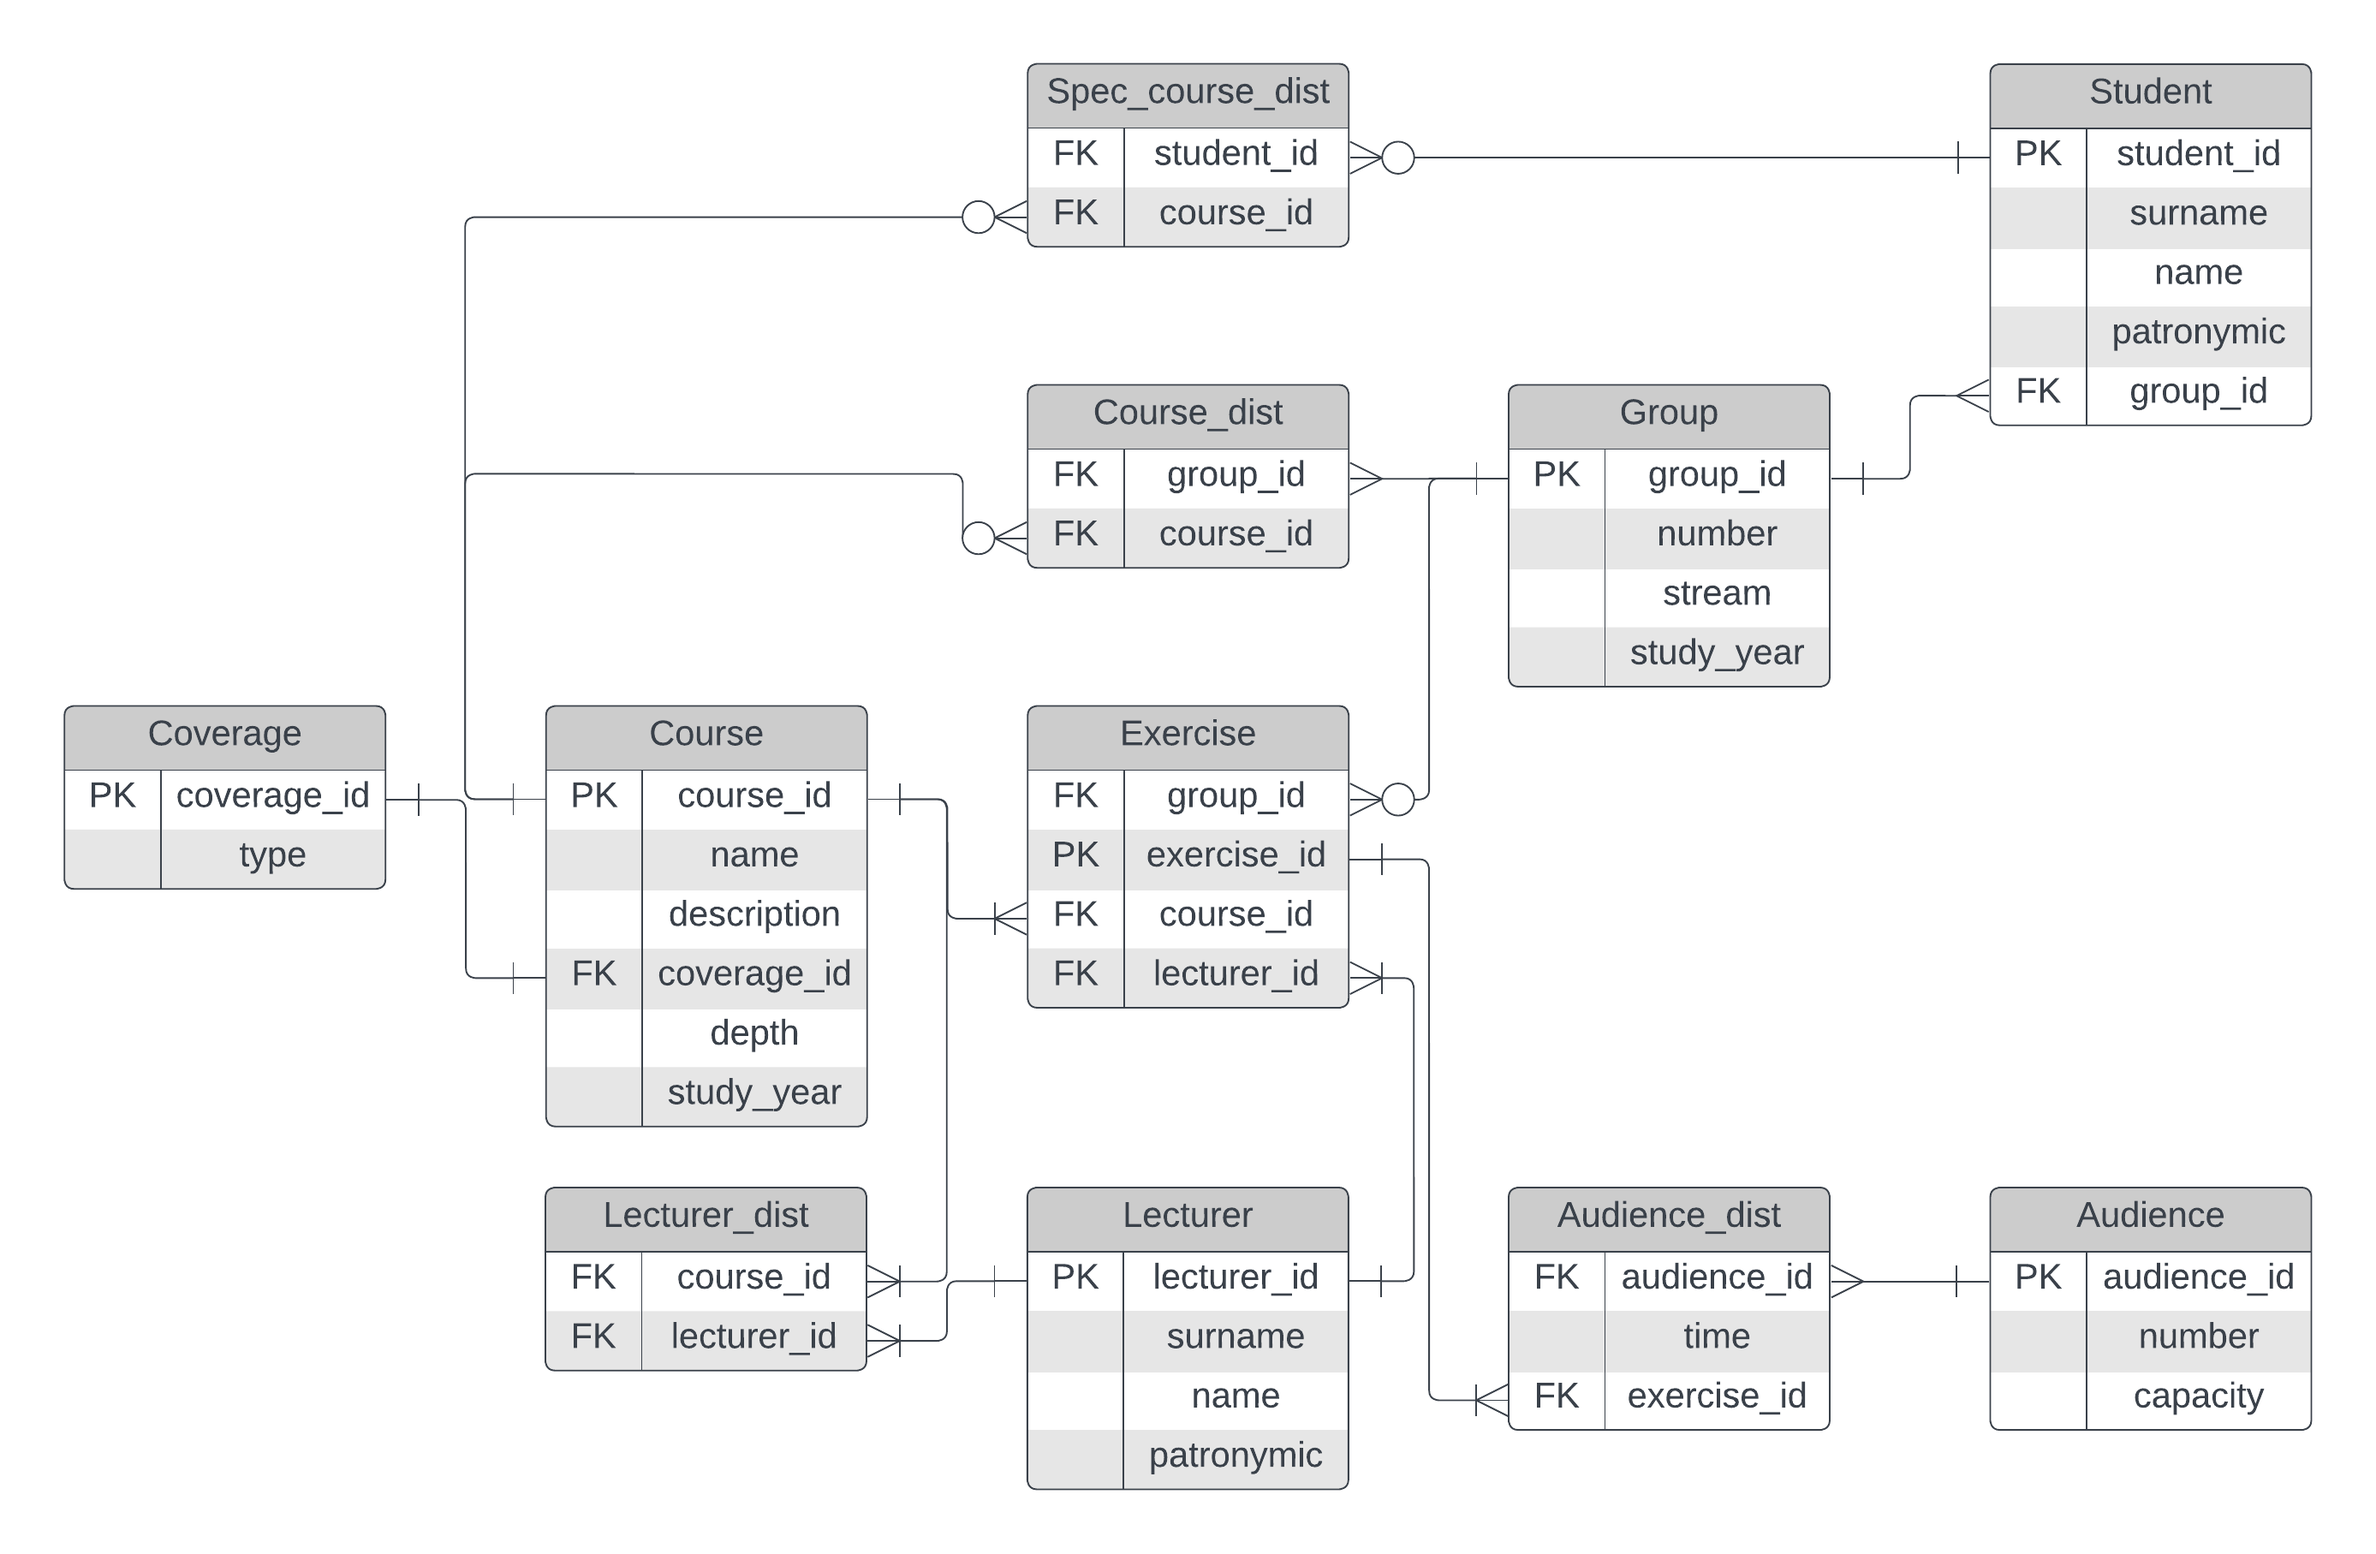
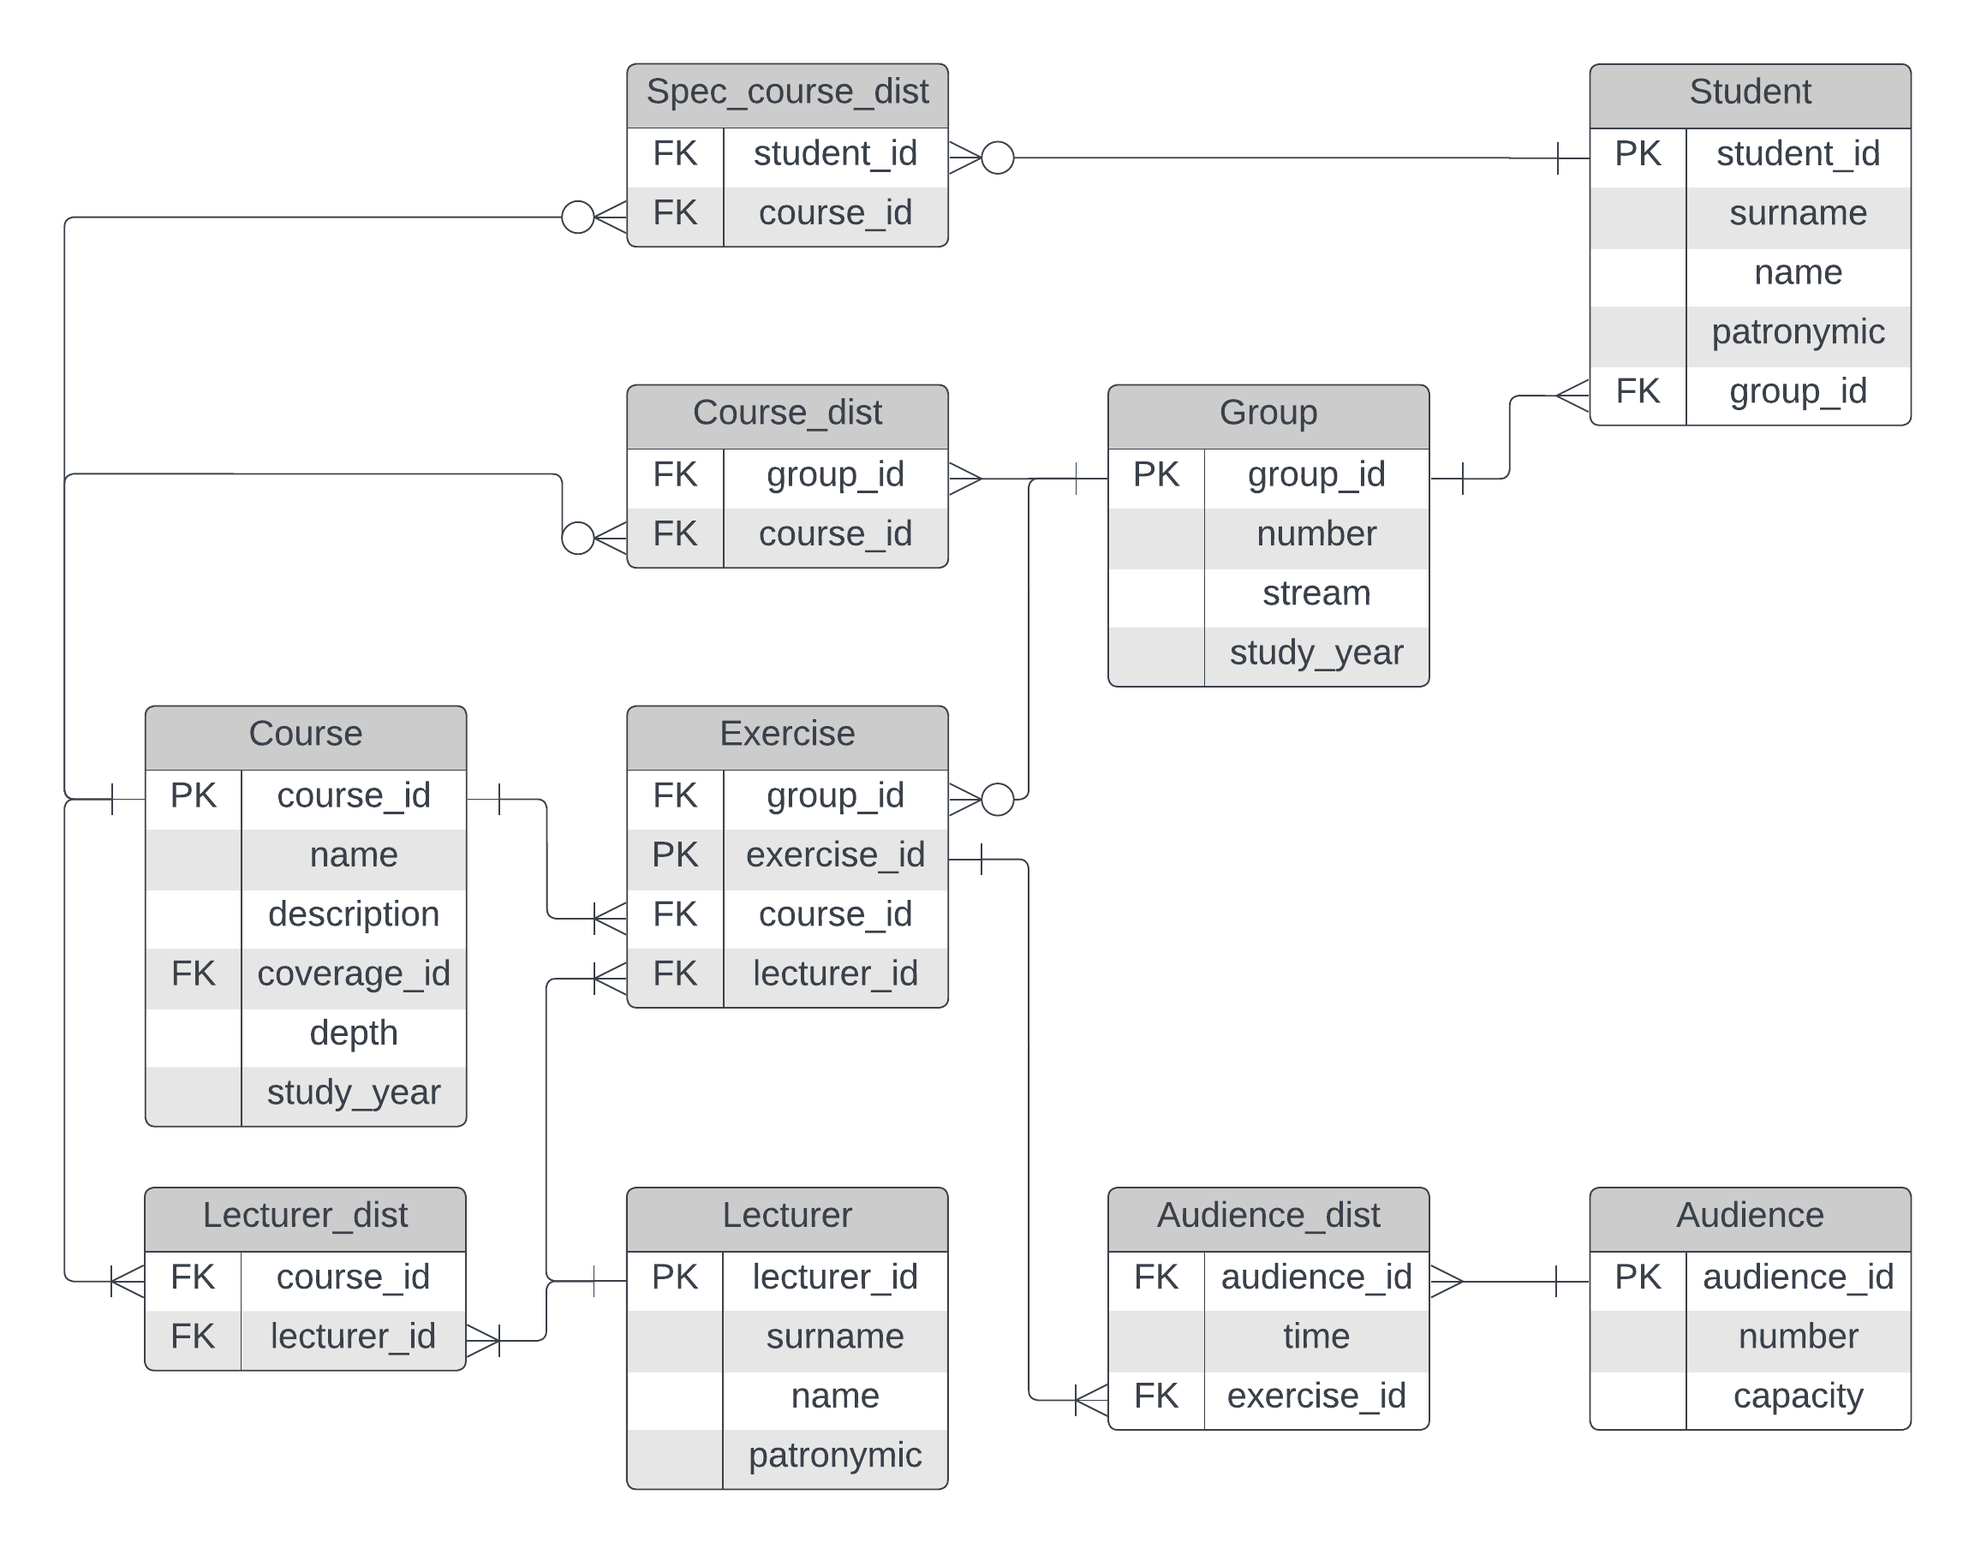
Refactor coverage

diff --git a/src/main/java/labs/webtech/table/Course.java b/src/main/java/labs/webtech/table/Course.java
@@ -14,6 +14,12 @@ import java.util.Objects;
 @AllArgsConstructor
 public class Course implements TableEntity<Long>{
 
+    public enum Coverage {
+        STREAM,
+        GROUP,
+        SPEC
+    }
+
     @Id
     @GeneratedValue(strategy = GenerationType.IDENTITY)
     @Column(nullable = false, name = "course_id")
@@ -25,10 +31,11 @@ public class Course implements TableEntity<Long>{
 
     @Column(nullable = false, name = "description")
     @NonNull
+    @Builder.Default
     private String description = "";
 
-    @ManyToOne(fetch = FetchType.EAGER)
-    @JoinColumn(nullable = false, name = "coverage_id")
+    @Column(nullable = false, name = "coverage")
+    @NonNull
     private Coverage coverage;
 
     @Column(nullable = false, name = "depth")
